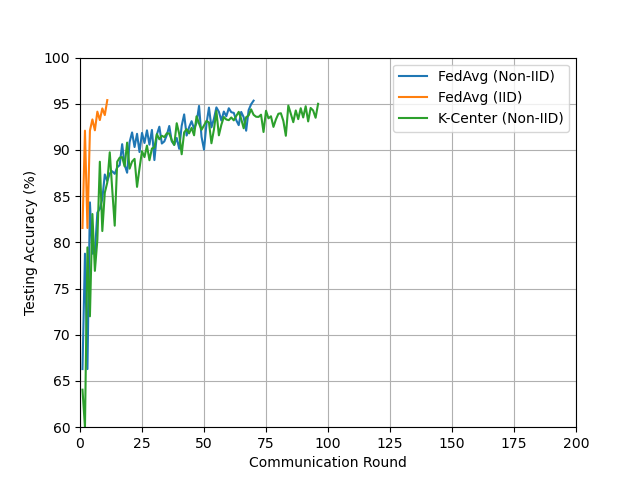
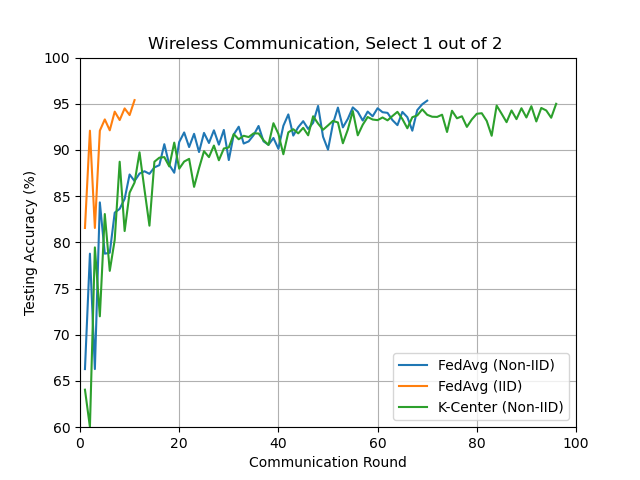
update

diff --git a/plot/fig1/plot_fig1.py b/plot/fig1/plot_fig1.py
@@ -4,9 +4,9 @@ import seaborn as sns
 import numpy as np
 
 # Load data
-df1 = pd.read_csv('output/mnist_fedavg_noniid.csv')
-df2 = pd.read_csv('output/mnist_fedavg_iid.csv')
-df3 = pd.read_csv('output/mnist_kcenter_noniid.csv')
+df1 = pd.read_csv('output/fig1/mnist_fedavg_noniid.csv')
+df2 = pd.read_csv('output/fig1/mnist_fedavg_iid.csv')
+df3 = pd.read_csv('output/fig1/mnist_kcenter_noniid.csv')
 
 
 # Plot data using accuracy vs. round
@@ -15,14 +15,14 @@ sns.lineplot(data=df1, x='round', y='accuracy', label='FedAvg (Non-IID)', ax=ax)
 sns.lineplot(data=df2, x='round', y='accuracy', label='FedAvg (IID)', ax=ax)
 sns.lineplot(data=df3, x='round', y='accuracy', label='K-Center (Non-IID)', ax=ax)
 
-#ax.set_title('MNIST')
+ax.set_title('Wireless Communication, Select 1 out of 2 ')
 ax.set_xlabel('Communication Round')
 ax.set_ylabel('Testing Accuracy (%)')
 # turn on grid lines
 ax.grid(True)
 ax.set_ylim(60, 100)
-ax.set_xlim(0, 200)
+ax.set_xlim(0, 100)
 #plt.show()
 
 # save the figure as a PNG
-fig.savefig('output/fig_1.png')
+fig.savefig('output/fig1/fig_1.png')
